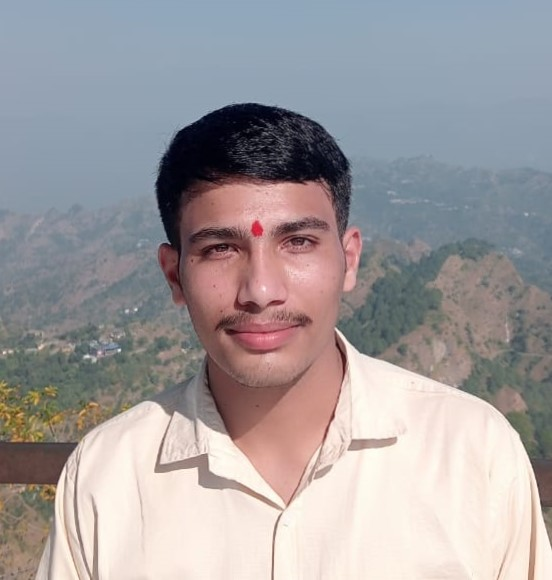
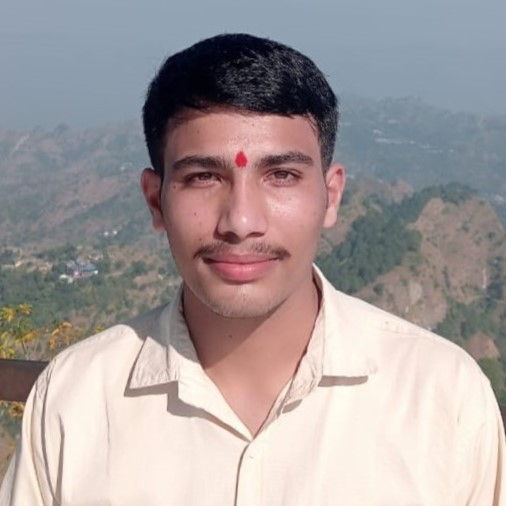
style: grad-cap

diff --git a/portfolio-client/src/App.jsx b/portfolio-client/src/App.jsx
@@ -1,6 +1,7 @@
 import Projects from "./sections/Projects"
 import React, { useState } from "react"
 import profileImage from "/assets/profile.jpg"
+import gradCap from "/assets/grad-cap.png"
 import Introduction from "./sections/Introduction"
 import Skills from "./sections/Skills"
 import Contacts from "./sections/Contacts"
@@ -12,8 +13,11 @@ function App() {
   return (
     <div className="bg-slate-100 dark:bg-slate-800 flex flex-col justify-center items-center p-3 lg:py-8">
       <DarkModeToggle />
-      <img src={profileImage} className="w-52 lg:w-40 rounded-full lg:mt-0 lg:absolute top-10" alt="profile-image" />
-      <div className="w-[90vw] mt-10 lg:mt-28 lg:w-[50vw] p-5 lg:p-8 dark:bg-gray-900 bg-white shadow rounded-xl lg:pt-20">
+      <div className="lg:absolute top-5 flex flex-col items-center justify-between">
+        <img src={gradCap} className="animate-bounce w-32 lg:w-28 rounded-full lg:mt-0 top-0" alt="profile-image" />
+        <img src={profileImage} className="w-52 lg:w-44  rounded-full" alt="profile-image" />
+      </div>
+      <div className="w-[90vw] mt-10 lg:mt-40 lg:w-[50vw] p-5 lg:p-8 dark:bg-gray-900 bg-white shadow rounded-xl lg:pt-20">
         <Introduction />
         <hr className="my-5 border-slate-300 dark:border-slate-600" />
         <Skills />

diff --git a/portfolio-client/tailwind.config.js b/portfolio-client/tailwind.config.js
@@ -1,6 +1,6 @@
 /** @type {import('tailwindcss').Config} */
 export default {
-  darkMode : 'class',
+  darkMode: 'class',
   content: [
     "./index.html",
     "./src/**/*.{js,ts,jsx,tsx}",
@@ -11,7 +11,9 @@ export default {
     },
   ],
   theme: {
-    extend: {},
+    extend: {
+      animation: { bounce: 'bounce 2.5s infinite', },
+    },
   },
   plugins: [],
 };
